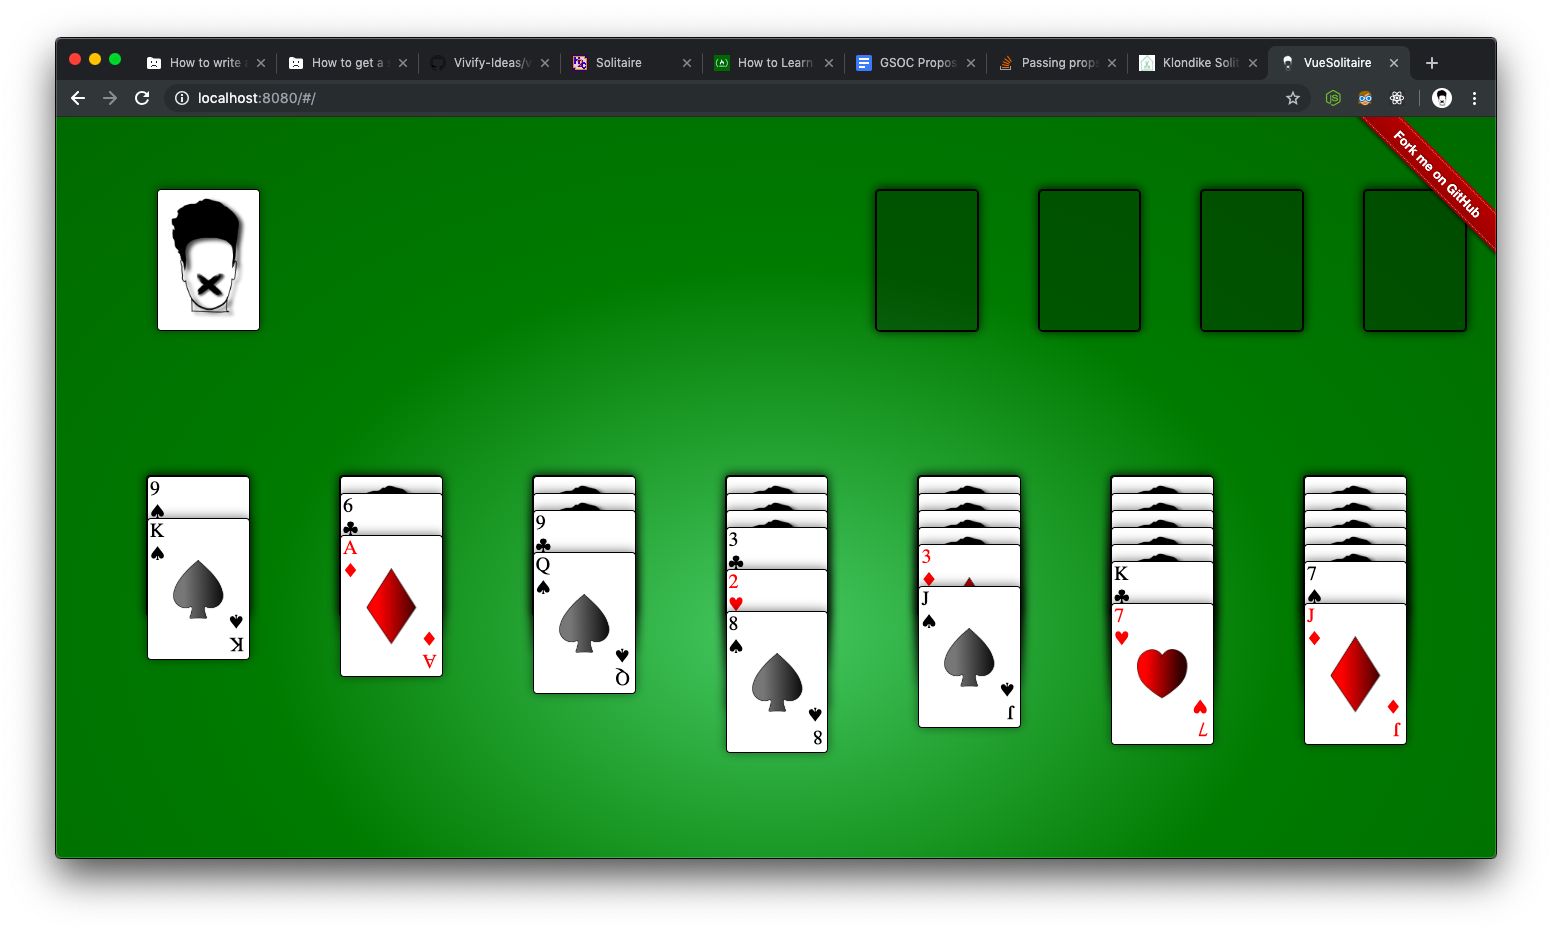
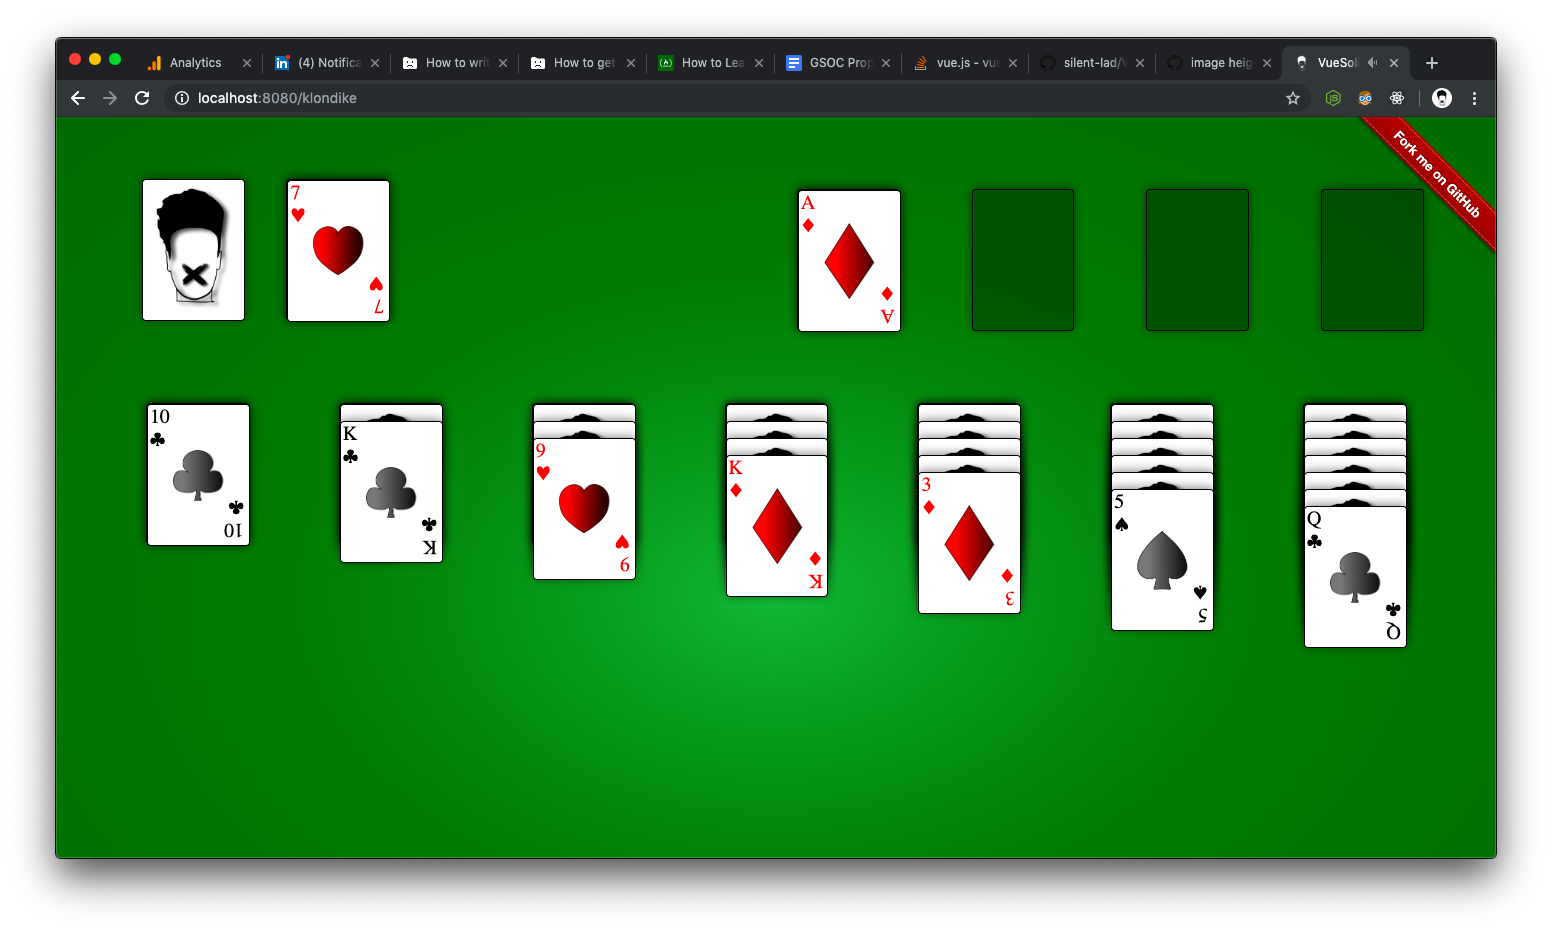
Readme

diff --git a/src/views/Spider.vue b/src/views/Spider.vue
@@ -218,7 +218,7 @@ export default {
 </script>
 <style >
 .mobile_warn {
-  display:none;
+  display: none;
 }
 .card_stack.down {
   margin-bottom: -125px;
@@ -260,7 +260,7 @@ export default {
   background: green;
 } */
 body {
- background-image: radial-gradient(
+  background-image: radial-gradient(
     rgba(57, 172, 57, 0.726),
     rgb(0, 116, 0),
     darkgreen
@@ -305,7 +305,6 @@ body {
   transform: translateY(30px);
 }
 @media screen and (max-width: 780px) {
-  
   body {
     width: 100%;
     height: 100%;
@@ -338,31 +337,31 @@ body {
     /* padding-left: 5px; */
   }
   .card_stack.selected {
-  box-shadow: 5px 5px 10px blue;
-  border: 3px solid blue;
-  transform: translate(2px, 2px);
+    box-shadow: 5px 5px 10px blue;
+    border: 3px solid blue;
+    transform: translate(2px, 2px);
   }
 }
-@media screen and (orientation:portrait) {
-   .mobile_warn {
-   background: #D66666;
-  border-radius: 10px;
-  display: inline-block;
-  color: #A32A2C;
-  font-family: 'Montserrat', sans-serif;
-  -webkit-font-smoothing: antialiased;
-  font-size:12px;
-  /* height: 100px; */
-  margin: 1rem;
-  position: relative;
-  width: 90%;
+@media screen and (orientation: portrait) {
+  .mobile_warn {
+    background: #d66666;
+    border-radius: 10px;
+    display: inline-block;
+    color: #a32a2c;
+    font-family: "Montserrat", sans-serif;
+    -webkit-font-smoothing: antialiased;
+    font-size: 12px;
+    /* height: 100px; */
+    margin: 1rem;
+    position: relative;
+    width: 90%;
   }
   .card-5 {
-  box-shadow: 0 19px 38px rgba(0,0,0,0.30), 0 15px 12px rgba(0,0,0,0.22);
-}
-  .green_table{
-    display:none;
-  }   
+    box-shadow: 0 19px 38px rgba(0, 0, 0, 0.3), 0 15px 12px rgba(0, 0, 0, 0.22);
+  }
+  .green_table {
+    display: none;
+  }
 }
 /* @media screen and (orientation:landscape) { … } */
 </style>

diff --git a/src/router.js b/src/router.js
@@ -1,24 +1,48 @@
 import Vue from "vue";
 import Router from "vue-router";
+
 import App from "./App.vue";
+import Spider from "./views/Spider.vue";
+import Klondike from "./views/Klondike.vue";
 
 Vue.use(Router);
 
-export default new Router({
-  history: true,
+let router = new Router({
+  mode: "history",
   routes: [
     {
       path: "/",
-      name: "solitaire",
-      component: App
+      name: "App",
+      component: App,
+      children: [
+        {
+          path: "/",
+          name: "Spider",
+          component: Spider,
+          props: {
+            gameMode: "1"
+          }
+        },
+        {
+          path: "/spider/2",
+          name: "Spider",
+          component: Spider,
+          props: {
+            gameMode: "2"
+          }
+        },
+        {
+          path: "/klondike",
+          name: "Klondike",
+          component: Klondike
+        }
+      ]
     },
-    // {
-    //   path: '/about',
-    //   name: 'about',
-    //   // route level code-splitting
-    //   // this generates a separate chunk (about.[hash].js) for this route
-    //   // which is lazy-loaded when the route is visited.
-    //   component: () => import(/* webpackChunkName: "about" */ './views/About.vue')
-    // }
+    {
+      path: "*",
+      redirect: "/spider/1"
+    }
   ]
 });
+
+export default router;

diff --git a/src/App.vue b/src/App.vue
@@ -1,6 +1,9 @@
 <template>
+  <transition name="fade">
+    <router-view></router-view>
+  </transition>
   <!-- <SpiderSolitaire gameMode="1"></SpiderSolitaire> -->
-  <KlondikeSolitaire></KlondikeSolitaire>
+  <!-- <KlondikeSolitaire></KlondikeSolitaire> -->
 </template>
 
 <script>
@@ -11,11 +14,45 @@ export default {
   name: "mainTable",
   components: { SpiderSolitaire, KlondikeSolitaire },
   data: function() {
-    return {};
+    return {
+      chosen: false
+    };
   }
 };
 </script>
 <style >
+a {
+  text-decoration: none;
+}
+.menu {
+  text-shadow: 0 19px 38px rgba(0, 0, 0, 0.3), 0 15px 12px rgba(0, 0, 0, 0.22);
+  background: #d66666;
+  border-radius: 10px;
+  display: inline-block;
+  color: #a32a2c;
+  font-family: "Montserrat", sans-serif;
+  -webkit-font-smoothing: antialiased;
+  font-size: 12px;
+  /* height: 100px; */
+  margin: 1rem;
+  position: relative;
+  width: 90%;
+}
+.card-5 {
+  box-shadow: 0 19px 38px rgba(0, 0, 0, 0.3), 0 15px 12px rgba(0, 0, 0, 0.22);
+}
+.menu_wrapper {
+  text-align: center;
+  height: 100vh;
+  width: 100vw;
+}
+.option {
+  color: brown;
+  font-size: 40px;
+}
+/* .menu {
+  
+} */
 /* @import "./assets/css/style.css"; */
 </style>
 

diff --git a/src/assets/js/spiderSolitaire.js b/src/assets/js/spiderSolitaire.js
@@ -74,9 +74,9 @@ export const checkPile = function(pile) {
   });
   var value = false;
   const checkArray = [13, 12, 11, 10, 9, 8, 7, 6, 5, 4, 3, 2, 1];
-  if( isEqual(checkArray, ranks.slice(-13))) {
-    console.log("faad veere faad");    
-    value = ranks.length -13;
-  };
+  if (isEqual(checkArray, ranks.slice(-13))) {
+    console.log("faad veere faad");
+    value = ranks.length - 13;
+  }
   return value;
 };

diff --git a/src/views/Klondike.vue b/src/views/Klondike.vue
@@ -26,7 +26,7 @@
           ></Card>
         </div>
         <div
-          class="card card_holder"
+          class="card card_holder "
           style="margin:5% 5% 0px 0px;cursor:pointer;"
           v-for="(card, index) in foundation"
           :key="index"
@@ -284,7 +284,7 @@ export default {
   }
 };
 </script>
-<style >
+<style>
 .card_stack {
   position: relative;
   margin-bottom: -100px;

diff --git a/src/main.js b/src/main.js
@@ -1,10 +1,9 @@
-import Vue from 'vue'
-import App from './App.vue'
-import router from './router'
+import Vue from "vue";
+import App from "./App.vue";
+import router from "./router";
 
-Vue.config.productionTip = false
-
+Vue.config.productionTip = false;
 new Vue({
   router,
   render: h => h(App)
-}).$mount('#app')
+}).$mount("#app");

diff --git a/README.md b/README.md
@@ -16,10 +16,13 @@ This is a simple 1 suit (spades) spider solitaire which was made famousby micros
 ## How to play
 
 - Click on the card or card pile you want to move .The pile turns to blue.
-  ![Alt text](./1.png "Title")
+
+<img src="./1.png" width="100%">
+
 - Click on the
   destination card and if the move is legal the cards will stack below the target.
-  ![Alt text](./2.png "Title")
+
+<img src="./2.png" width="100%">
 
 - Click the pile on the lower-right corner for extra cards.
 
@@ -28,18 +31,25 @@ This is a simple 1 suit (spades) spider solitaire which was made famousby micros
 ### CSS
 
 - Each and every card is 100% css except for the SVG of the suit in the center ,which is made by illustrator tool.
-  ![Alt text](./4.png "Title")
 
-### Transitions
-
-This uses the transition methods given by vue.js
+  <img src="./4.png" width="30%">
 
 ## Future scope
 
-I have made seperate files for rules on dealing cards,card selection and other stuff for each type of Solitaire eg:- 1 suit spider, 2 suit spider, traditional solitaire. I will be working on them to make it available for every type of solitaire.
+Make it drag and drop compliable.
 
-# Coming Soon .. Klondiak Solitaire (in dev).
+# Variants
 
-![Alt text](./3.png "Title")
+## [Klondike](https://solitairevue.firebaseapp.com/klondike)
+
+<img src="./3.png" width="50%">
+
+## [Spider 4 Suit](https://solitairevue.firebaseapp.com/spider/2)
+
+<img src="./5.png" width="50%">
+
+## [Spider 1 Suit](https://solitairevue.firebaseapp.com/)
+
+<img src="./1.png" width="50%">
 
 ### Contributions are Welcome
